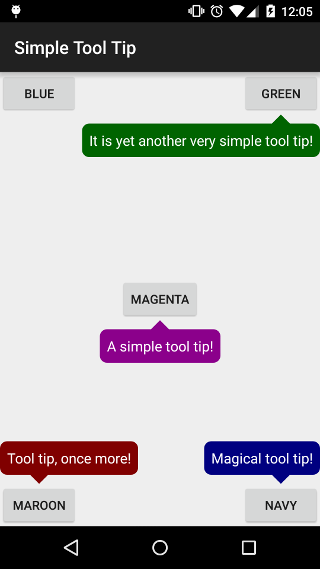
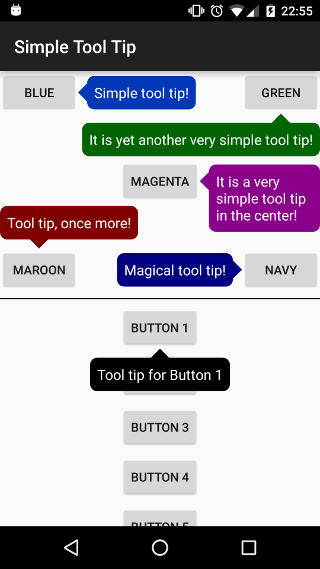
Updated sample and screenshot.

diff --git a/app/src/main/java/com/github/xizzhu/simpletooltip/sample/MainActivity.java b/app/src/main/java/com/github/xizzhu/simpletooltip/sample/MainActivity.java
@@ -39,22 +39,21 @@ public class MainActivity extends AppCompatActivity {
         findViewById(R.id.top_left_button).setOnClickListener(new View.OnClickListener() {
             @Override
             public void onClick(View v) {
-                showToolTipView(v, Gravity.RIGHT, "It is a very simple tool tip!",
+                showToolTipView(v, Gravity.RIGHT, "Simple tool tip!",
                         ContextCompat.getColor(MainActivity.this, R.color.blue));
             }
         });
         findViewById(R.id.top_right_button).setOnClickListener(new View.OnClickListener() {
             @Override
             public void onClick(View v) {
-                showToolTipView(v, Gravity.LEFT, "It is yet another very simple tool tip!\n" +
-                                "Test test",
+                showToolTipView(v, Gravity.BOTTOM, "It is yet another very simple tool tip!",
                         ContextCompat.getColor(MainActivity.this, R.color.green));
             }
         });
         findViewById(R.id.central_button).setOnClickListener(new View.OnClickListener() {
             @Override
             public void onClick(View v) {
-                showToolTipView(v, Gravity.BOTTOM, "It is a very simple tool tip in the center!\nTest test",
+                showToolTipView(v, Gravity.RIGHT, "It is a very simple tool tip in the center!",
                         ContextCompat.getColor(MainActivity.this, R.color.magenta));
             }
         });
